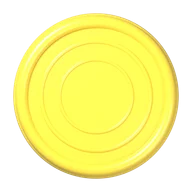
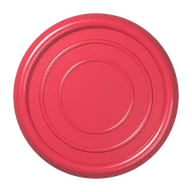
404 card: post to X, Instagram, Facebook or a text; Leroy in red
A Post it row under the card's buttons. X and Facebook open with the post
written and the card on the clipboard (or the clip saved) to add to it;
Instagram and Text hand the picture to the share sheet on phones, and on
a computer Instagram saves it and Text opens Messages. The status line
only shows when there's something to do about it.

Leroy's chip is re-rendered in crimson, apart from your orange.

diff --git a/src/client/four-card.ts b/src/client/four-card.ts
@@ -117,10 +117,18 @@ function save(blob: Blob) {
   const a = document.createElement('a'); a.href = URL.createObjectURL(blob); a.download = fileOf(blob).name; a.click();
   setTimeout(() => URL.revokeObjectURL(a.href), 4000);
 }
+// What a post says: who won, against whom, and an invitation back to the game
+const PLAY_URL = 'https://heyderekj.com/404';
+function postText() {
+  if (!game) return '';
+  const me = petName || 'I', foe = game.foe, n = game.wins;
+  if (game.by === 'you') return `${me} beat ${foe} ${n === 1 ? 'once' : `${n} times`} at Connect Four. Your turn:`;
+  return n ? `${me} won ${n} before ${foe} took one at Connect Four. Your turn:` : `${foe} beat ${petName || 'me'} at Connect Four. Your turn:`;
+}
 async function shareOut(blob: Blob) {
   const file = fileOf(blob);
   if (!navigator.canShare?.({ files: [file] })) { save(blob); return 'saved'; }
-  try { await navigator.share({ files: [file], title: 'Shall we play a game?', text: `I played Connect Four against ${game?.foe ?? 'the animals'} on heyderekj.com/404` }); return 'shared'; }
+  try { await navigator.share({ files: [file], title: 'Shall we play a game?', text: `${postText()} ${PLAY_URL}` }); return 'shared'; }
   catch (e) { return (e as Error).name === 'AbortError' ? 'closed' : (save(blob), 'saved'); }
 }
 const canClip = typeof MediaRecorder !== 'undefined' && 'captureStream' in HTMLCanvasElement.prototype;
@@ -155,7 +163,7 @@ if (root) {
     as = next;
     root.querySelectorAll('[data-as]').forEach((x) => x.setAttribute('aria-checked', String((x as HTMLElement).dataset.as === as)));
     copyBtn.hidden = as === 'clip' || !canCopy;
-    if (as === 'image') { root.classList.remove('is-recording'); clearTimeout(stale); video.pause(); video.hidden = true; status.textContent = ''; render(); }
+    if (as === 'image') { root.classList.remove('is-recording'); clearTimeout(stale); video.pause(); video.hidden = true; say(''); render(); }
     else if (clip) showClip(); else record();
   };
   root.querySelectorAll<HTMLButtonElement>('[data-as]').forEach((b) => b.addEventListener('click', () => setAs(b.dataset.as as typeof as)));
@@ -177,7 +185,7 @@ if (root) {
     if (recording || !game) return recording;
     const g = game, type = ['video/mp4;codecs=avc1', 'video/mp4', 'video/webm;codecs=vp9', 'video/webm'].find((m) => MediaRecorder.isTypeSupported(m)) ?? '';
     const { from, per, replay, reveal, length } = clipPlan(g);
-    root!.classList.add('is-recording'); video.hidden = true; status.textContent = 'Recording the replay…';
+    root!.classList.add('is-recording'); video.hidden = true; // the Rec badge and bar say what's happening
     recording = (async () => {
       const stream = preview.captureStream(30), rec = new MediaRecorder(stream, type ? { mimeType: type, videoBitsPerSecond: 5_000_000 } : undefined), parts: Blob[] = [];
       rec.ondataavailable = (ev) => ev.data.size && parts.push(ev.data);
@@ -203,7 +211,6 @@ if (root) {
       render();
       if (cut) return null;
       clip = new Blob(parts, { type: rec.mimeType || 'video/webm' });
-      status.textContent = `${(length / 1000).toFixed(1)}s clip, ready`;
       if (as === 'clip') showClip();
       return clip;
     })();
@@ -223,14 +230,14 @@ if (root) {
     clearTimeout(Number(btn.dataset.t)); btn.dataset.t = String(setTimeout(() => { label.textContent = was; btn.classList.remove('is-done'); }, 1600));
   };
 
+  // A line under the buttons only when there's something to do about it, gone after a while
+  let hush = 0;
+  function say(text: string) { status.textContent = text; clearTimeout(hush); if (text) hush = window.setTimeout(() => (status.textContent = ''), 5000); }
+  // Safari wants the promise handed straight to the clipboard, inside the click
+  const copyImage = () => { render(); return navigator.clipboard.write([new ClipboardItem({ 'image/png': new Promise<Blob>((r, x) => preview.toBlob((b) => (b ? r(b) : x()), 'image/png')) })]); };
   copyBtn.addEventListener('click', async () => {
     if (!game) return;
-    render();
-    try {
-      // Safari wants the promise handed straight to the clipboard, inside the click
-      await navigator.clipboard.write([new ClipboardItem({ 'image/png': new Promise<Blob>((r, x) => preview.toBlob((b) => (b ? r(b) : x()), 'image/png')) })]);
-      did(copyBtn, 'Copied'); status.textContent = 'Paste it anywhere.';
-    } catch { status.textContent = 'Couldn’t copy here. Save it instead.'; }
+    try { await copyImage(); did(copyBtn, 'Copied'); } catch { say('Couldn’t copy here. Save it instead.'); }
   });
   saveBtn.addEventListener('click', async () => {
     saveBtn.disabled = true; const blob = await current(); saveBtn.disabled = false;
@@ -243,6 +250,32 @@ if (root) {
     const how = await shareOut(blob);
     if (how === 'shared') did(shareBtn, 'Shared'); else if (how === 'saved') did(saveBtn, 'Saved');
   });
+
+  // Post it: X and Facebook take a link, so the picture goes on the clipboard (or the clip into
+  // Downloads) to add to the post. Instagram and Messages take the picture itself, through the
+  // share sheet on phones; on a computer, Instagram gets a saved file and Text opens Messages
+  const enc = encodeURIComponent;
+  root.querySelectorAll<HTMLButtonElement>('[data-post]').forEach((b) => b.addEventListener('click', async () => {
+    if (!game) return;
+    const where = b.dataset.post!, text = postText();
+    if (where === 'instagram' || (where === 'text' && canShareFiles)) {
+      b.disabled = true; const blob = await current(); b.disabled = false;
+      if (!blob) return;
+      if ((await shareOut(blob)) === 'saved') say(where === 'instagram' ? 'Saved. Instagram only takes posts from its app, so add it from your phone.' : 'Saved to your downloads.');
+      return;
+    }
+    if (where === 'text') { location.href = `sms:?&body=${enc(`${text} ${PLAY_URL}`)}`; return; }
+    let note = '';
+    if (as === 'clip') {
+      if (!clip) { record(); say('Making the clip first. Tap again when it’s done.'); return; }
+      save(clip); note = 'Clip saved. Add it to your post.';
+    } else if (canCopy) {
+      try { await copyImage(); note = 'Card copied. Paste it into your post.'; } catch { /* the link alone, then */ }
+    }
+    const href = where === 'x' ? `https://x.com/intent/post?text=${enc(text)}&url=${enc(PLAY_URL)}` : `https://www.facebook.com/sharer/sharer.php?u=${enc(PLAY_URL)}`;
+    window.open(href, '_blank', 'noopener,width=620,height=680');
+    say(note);
+  }));
 
   // Designs
   root.querySelectorAll<HTMLButtonElement>('[data-design]').forEach((b) => b.addEventListener('click', () => {
@@ -260,7 +293,7 @@ if (root) {
   async function usePhoto(file: File | undefined) {
     if (!file || !file.type.startsWith('image/')) return;
     const url = URL.createObjectURL(file), img = new Image();
-    try { img.src = url; await img.decode(); } catch { status.textContent = 'That photo didn’t load. Try another.'; return; } finally { setTimeout(() => URL.revokeObjectURL(url), 0); }
+    try { img.src = url; await img.decode(); } catch { say('That photo didn’t load. Try another.'); return; } finally { setTimeout(() => URL.revokeObjectURL(url), 0); }
     // A centred square, small enough to keep around
     const c = document.createElement('canvas'), side = Math.min(img.naturalWidth, img.naturalHeight);
     c.width = c.height = 480;
@@ -283,7 +316,7 @@ if (root) {
 
   // Called by the game when you ask for a card
   openCardImpl = (g) => {
-    game = g; root.hidden = false; status.textContent = ''; clip = null;
+    game = g; root.hidden = false; say(''); clip = null;
     lengthLabel.textContent = ` · ${Math.round(clipPlan(g).length / 1000)}s`;
     setAs('image');
     chip('orange', render); chip(g.foe.toLowerCase(), render); portrait(g.foe, render);

diff --git a/src/lib/icons/brands.ts b/src/lib/icons/brands.ts
@@ -7,6 +7,8 @@
  */
 export const BRANDS = {
   x: 'M18.901 1.153h3.68l-8.04 9.19L24 22.846h-7.406l-5.8-7.584-6.638 7.584H.474l8.6-9.83L0 1.154h7.594l5.243 6.932ZM17.61 20.644h2.039L6.486 3.24H4.298Z',
+  instagram: 'M7.0301.084c-1.2768.0602-2.1487.264-2.911.5634-.7888.3075-1.4575.72-2.1228 1.3877-.6652.6677-1.075 1.3368-1.3802 2.127-.2954.7638-.4956 1.6365-.552 2.914-.0564 1.2775-.0689 1.6882-.0626 4.947.0062 3.2586.0206 3.6671.0825 4.9473.061 1.2765.264 2.1482.5635 2.9107.308.7889.72 1.4573 1.388 2.1228.6679.6655 1.3365 1.0743 2.1285 1.38.7632.295 1.6361.4961 2.9134.552 1.2773.056 1.6884.069 4.9462.0627 3.2578-.0062 3.668-.0207 4.9478-.0814 1.28-.0607 2.147-.2652 2.9098-.5633.7889-.3086 1.4578-.72 2.1228-1.3881.665-.6682 1.0745-1.3378 1.3795-2.1284.2957-.7632.4966-1.636.552-2.9124.056-1.2809.0692-1.6898.063-4.948-.0063-3.2583-.021-3.6668-.0817-4.9465-.0607-1.2797-.264-2.1487-.5633-2.9117-.3084-.7889-.72-1.4568-1.3876-2.1228C21.2982 1.33 20.628.9208 19.8378.6165 19.074.321 18.2017.1197 16.9244.0645 15.6471.0093 15.236-.005 11.977.0014 8.718.0076 8.31.0215 7.0301.0839m.1402 21.6932c-1.17-.0509-1.8053-.2453-2.2287-.408-.5606-.216-.96-.4771-1.3819-.895-.422-.4178-.6811-.8186-.9-1.378-.1644-.4234-.3624-1.058-.4171-2.228-.0595-1.2645-.072-1.6442-.079-4.848-.007-3.2037.0053-3.583.0607-4.848.05-1.169.2456-1.805.408-2.2282.216-.5613.4762-.96.895-1.3816.4188-.4217.8184-.6814 1.3783-.9003.423-.1651 1.0575-.3614 2.227-.4171 1.2655-.06 1.6447-.072 4.848-.079 3.2033-.007 3.5835.005 4.8495.0608 1.169.0508 1.8053.2445 2.228.408.5608.216.96.4754 1.3816.895.4217.4194.6816.8176.9005 1.3787.1653.4217.3617 1.056.4169 2.2263.0602 1.2655.0739 1.645.0796 4.848.0058 3.203-.0055 3.5834-.061 4.848-.051 1.17-.245 1.8055-.408 2.2294-.216.5604-.4763.96-.8954 1.3814-.419.4215-.8181.6811-1.3783.9-.4224.1649-1.0577.3617-2.2262.4174-1.2656.0595-1.6448.072-4.8493.079-3.2045.007-3.5825-.006-4.848-.0608M16.953 5.5864A1.44 1.44 0 1 0 18.39 4.144a1.44 1.44 0 0 0-1.437 1.4424M5.8385 12.012c.0067 3.4032 2.7706 6.1557 6.173 6.1493 3.4026-.0065 6.157-2.7701 6.1506-6.1733-.0065-3.4032-2.771-6.1565-6.174-6.1498-3.403.0067-6.156 2.771-6.1496 6.1738M8 12.0077a4 4 0 1 1 4.008 3.9921A3.9996 3.9996 0 0 1 8 12.0077',
+  facebook: 'M9.101 23.691v-7.98H6.627v-3.667h2.474v-1.58c0-4.085 1.848-5.978 5.858-5.978.401 0 .955.042 1.468.103a8.68 8.68 0 0 1 1.141.195v3.325a8.623 8.623 0 0 0-.653-.036 26.805 26.805 0 0 0-.733-.009c-.707 0-1.259.096-1.675.309a1.686 1.686 0 0 0-.679.622c-.258.42-.374.995-.374 1.752v1.297h3.919l-.386 2.103-.287 1.564h-3.246v8.245C19.396 23.238 24 18.179 24 12.044c0-6.627-5.373-12-12-12s-12 5.373-12 12c0 5.628 3.874 10.35 9.101 11.647Z',
   github:
     'M12 .297c-6.63 0-12 5.373-12 12 0 5.303 3.438 9.8 8.205 11.385.6.113.82-.258.82-.577 0-.285-.01-1.04-.015-2.04-3.338.724-4.042-1.61-4.042-1.61C4.422 18.07 3.633 17.7 3.633 17.7c-1.087-.744.084-.729.084-.729 1.205.084 1.838 1.236 1.838 1.236 1.07 1.835 2.809 1.305 3.495.998.108-.776.417-1.305.76-1.605-2.665-.3-5.466-1.332-5.466-5.93 0-1.31.465-2.38 1.235-3.22-.135-.303-.54-1.523.105-3.176 0 0 1.005-.322 3.3 1.23.96-.267 1.98-.399 3-.405 1.02.006 2.04.138 3 .405 2.28-1.552 3.285-1.23 3.285-1.23.645 1.653.24 2.873.12 3.176.765.84 1.23 1.91 1.23 3.22 0 4.61-2.805 5.625-5.475 5.92.42.36.81 1.096.81 2.22 0 1.606-.015 2.896-.015 3.286 0 .315.21.69.825.57C20.565 22.092 24 17.592 24 12.297c0-6.627-5.373-12-12-12',
 } as const;

diff --git a/src/styles/site.css b/src/styles/site.css
@@ -1185,7 +1185,18 @@ body.site .four__col:focus-visible { outline: none; }
 .four-card__actions button.is-done .i-done { display: block; animation: lost-in 220ms var(--ease) both; }
 .four-card__actions button.is-quiet { margin-left: auto; padding-inline: 12px; color: var(--muted); background: none; }
 .four-card__actions button:disabled { opacity: 0.5; cursor: progress; }
-.four-card__status { min-height: 1em; font-size: 12.5px; color: var(--muted); }
+.four-card__status { font-size: 12.5px; color: var(--muted); }
+.four-card__status:empty { display: none; }
+/* Post it: a row of marks, each taking its own colour on hover */
+.four-card__post { display: flex; align-items: center; gap: 6px; }
+.four-card__post span { margin-right: auto; font-size: 13px; font-weight: 500; color: var(--muted); }
+.four-card__post button { --r: 11px; display: grid; place-items: center; width: 38px; height: 38px; font-size: 17px; color: var(--ink-soft); background: color-mix(in oklch, var(--ink) 6%, transparent); transition: color var(--t-ui) var(--ease), background-color var(--t-ui) var(--ease); }
+.four-card__post button:hover, .four-card__post button:focus-visible { color: #fff; background: var(--brand); }
+.four-card__post button:disabled { opacity: 0.5; cursor: progress; }
+.four-card__post [data-post="x"] { --brand: #000; }
+.four-card__post [data-post="instagram"] { --brand: linear-gradient(45deg, #f9ce34, #ee2a7b 50%, #6228d7); }
+.four-card__post [data-post="facebook"] { --brand: #0866ff; }
+.four-card__post [data-post="text"] { --brand: #34c759; }
 @media (max-width: 640px) { .four-card { grid-template-columns: 1fr; } .four__board { border-radius: 20px; } }
 @media (prefers-reduced-motion: reduce) { .four__col i, .four__col i.drop, .four__col i.win, .four[data-turn="you"] .four__col i.next { animation: none; } }
 /* Letter shortcuts on the 404 chat's choices (client/lost-chat.ts) */

diff --git a/src/client/four.ts b/src/client/four.ts
@@ -29,7 +29,7 @@ if (game && grid404 && head) {
   const WARGAMES = 'A strange game. The only winning move is not to play.';
   const FOES: Foe[] = [
     { // Slow, but persistent and smart: thinks for ages, looks furthest ahead, never slips
-      name: 'Leroy', kind: 'cat', tone: 'oklch(0.86 0.16 95)', toneInk: '#3d3a35', delay: [1300, 2300], depth: (l) => Math.min(7, l + 2), slip: () => 0,
+      name: 'Leroy', kind: 'cat', tone: 'oklch(0.56 0.19 18)', delay: [1300, 2300], depth: (l) => Math.min(7, l + 2), slip: () => 0,
       lines: {
         stop: ['Leaving? I’ll be right here.', 'Smart. Quit while you’re ahead.'],
         start: ['Leroy here. Shall we play a game? Take your time. I will.'],

diff --git a/scripts/four-chips/chips.py b/scripts/four-chips/chips.py
@@ -58,7 +58,10 @@ world.node_tree.nodes['Background'].inputs['Color'].default_value = (0.6, 0.6, 0
 world.node_tree.nodes['Background'].inputs['Strength'].default_value = 0.6
 
 # You, then the animals you can play (their badge colours, client/four.ts)
-for name, color in (('orange', '#ea580c'), ('ink', '#1c1b19'), ('leroy', '#f2cf3b'), ('irma', '#f9bb92'), ('kiya', '#009a9b'), ('lilo', '#8254c4')):
+# CHIPS=leroy,kiya renders just those
+only = [n for n in os.environ.get('CHIPS', '').split(',') if n]
+for name, color in (('orange', '#ea580c'), ('ink', '#1c1b19'), ('leroy', '#b8233a'), ('irma', '#f9bb92'), ('kiya', '#009a9b'), ('lilo', '#8254c4')):
+    if only and name not in only: continue
     bsdf.inputs['Base Color'].default_value = srgb(color)
     scene.render.filepath = os.path.join(OUT, f'chip-{name}.png')
     bpy.ops.render.render(write_still=True)
